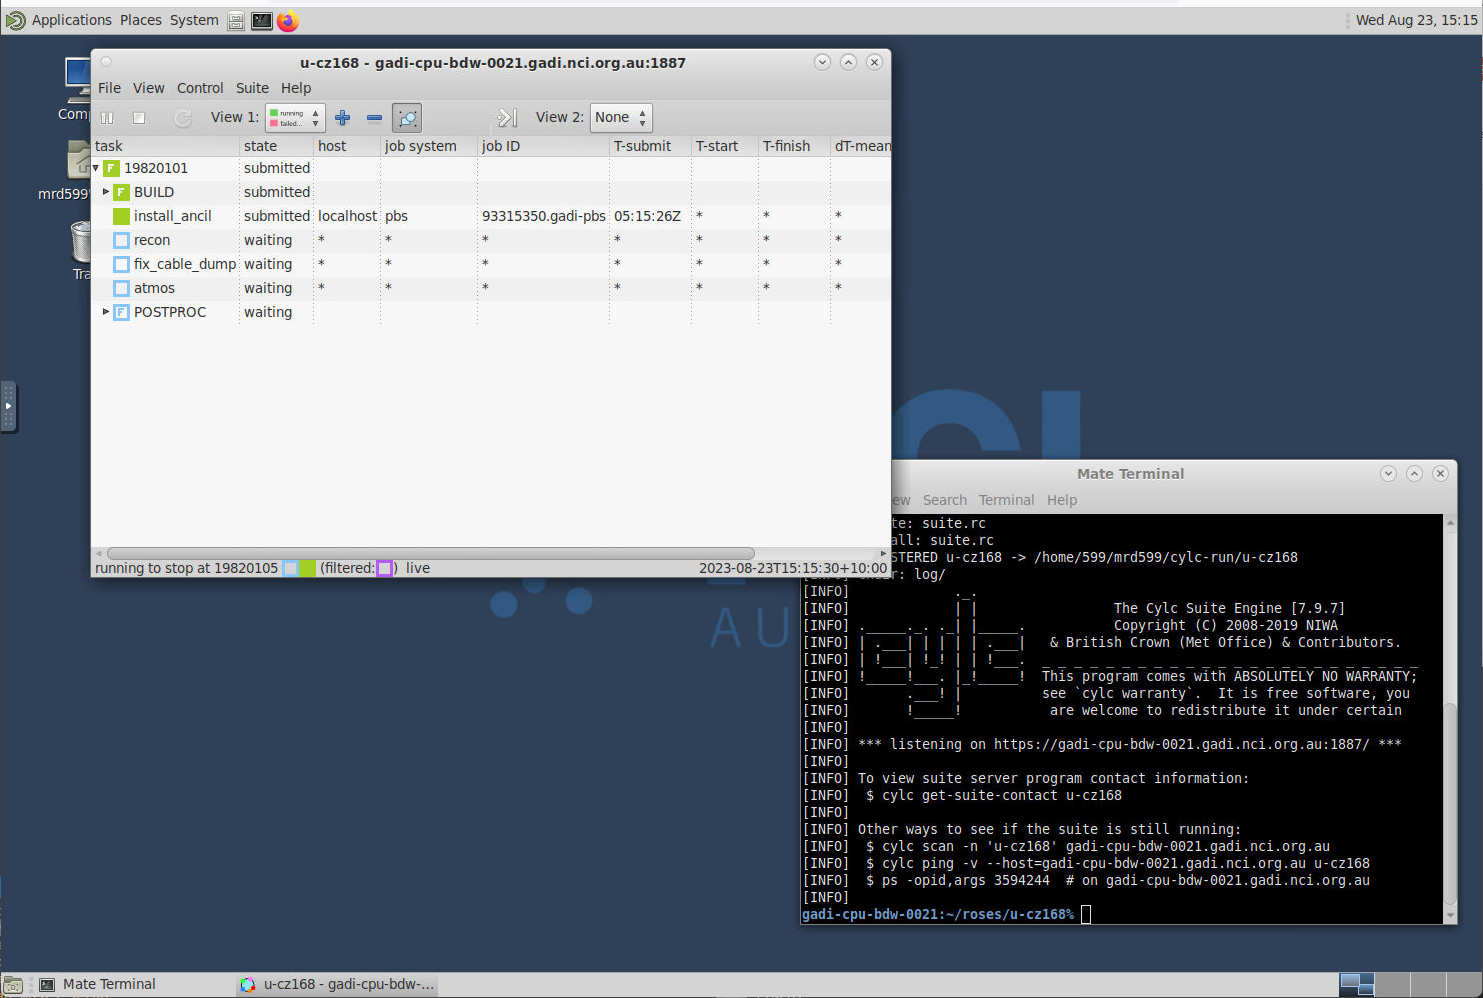
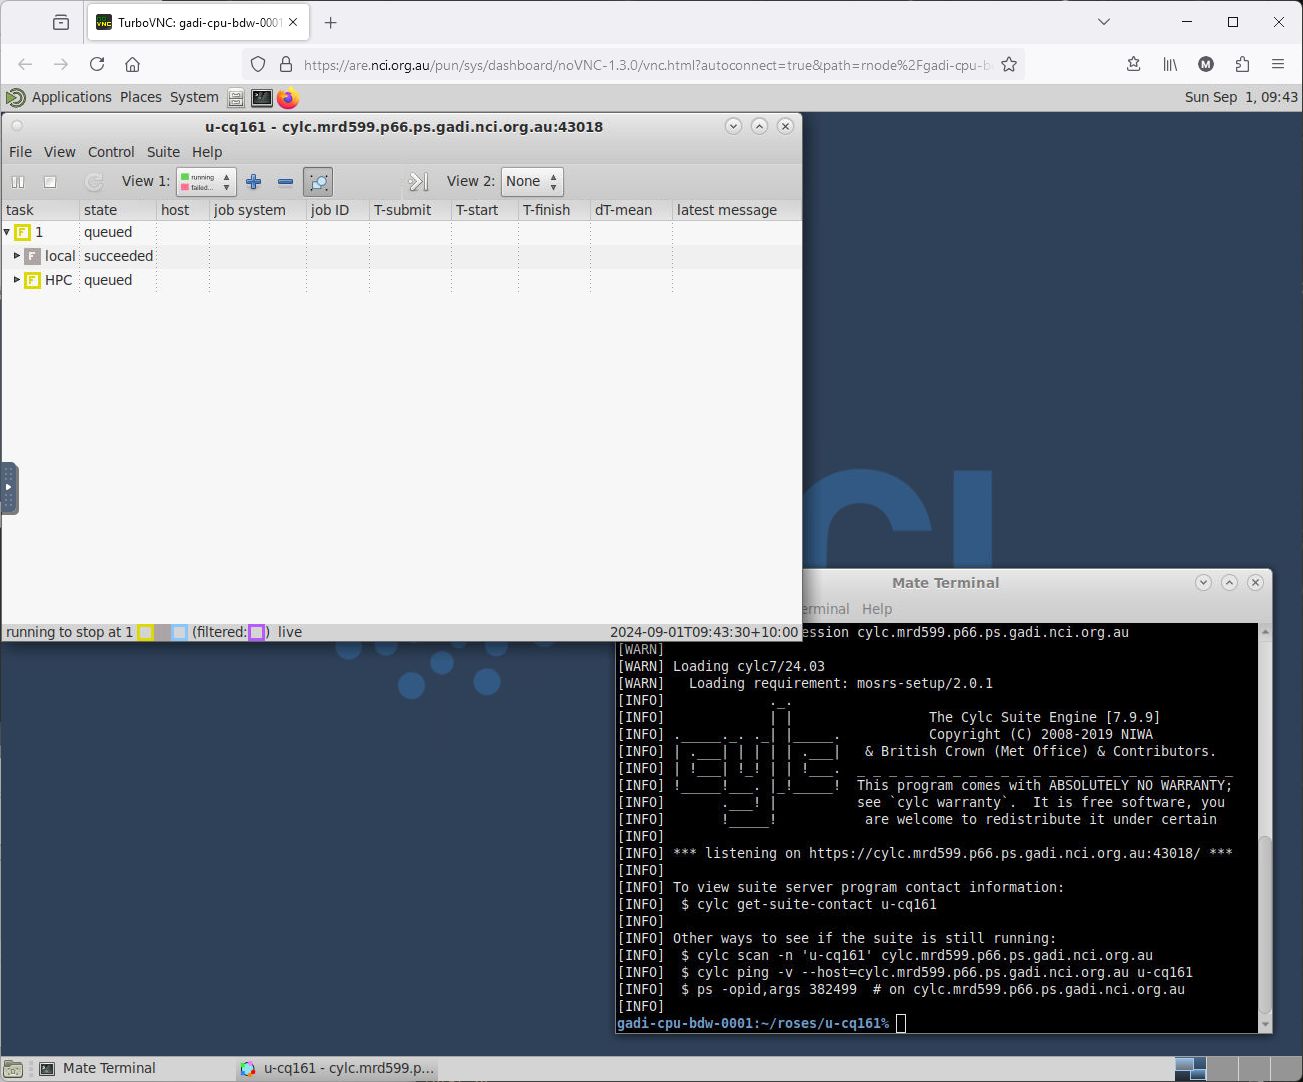
Update with simple cylc example suite

diff --git a/access_rose_cylc/rose_cylc_example.md b/access_rose_cylc/rose_cylc_example.md
@@ -1,59 +1,5 @@
 # ACCESS-NRI Workshop rose cylc examples
-<p>Guide for the rose cylc ACCESS-NRI workshop exercises.</p>
-
-## Step 0: Pre-workshop
-Join the access, hh5, hr22, ki32 and nf33 projects.
-
-The exercises will still work if you do not have a MOSRS account
-
-## Step 1:
-Go to the [Australian Research Environment](https://are.nci.org.au/) website and login with your **NCI username and password**. If you don't have an NCI account, you can sign up for one at the [NCI website](https://my.nci.org.au/mancini/login?next=/mancini/).
-
-<p align="center"><img src="../assets/ARE_setup_guide/setup_image1.png" alt="drawing" width="50%"/></p>
-
-## Step 2:
-Click on `Virtual Desktop` under *Featured Apps* to configure a new VDI instance. This option is also available under the *All Apps* section at the bottom of the page and the *Interactive Apps* dropdown located in the top menu.
-
-<p align="center"><img src="../assets/access_rose_cylc/setup_vdi1.png" alt="drawing" width="50%"/></p>
-
-## Step 3:
-You will now be presented with the main VDI instance configuration form. Please complete **only** the fields below - leave all other fields blank or to their default values.
-
-- *3.1* **Walltime**: The number of hours the VDI instance will run. `3` hours is sufficient for this workshop session.
-
-<p align="center"><img src="../assets/access_rose_cylc/setup_image3.png" alt="drawing" width="50%"/></p>
-
-- *3.2* **Compute Size**: Select `Tiny (1 cpus, 4.5G mem)` from the dropdown menu.
-
-<p align="center"><img src="../assets/access_rose_cylc/setup_image4.png" alt="drawing" width="50%"/></p>
-
-- *3.3* **Project**: Please enter `nf33`. This will allocate SU usage to the workshop project.
-
-<p align="center"><img src="../assets/ARE_setup_guide/setup_image5.png" alt="drawing" width="50%"/></p>
-
-- *3.4* **Storage**: This is the list of `/g/data/` project data storage locations required to complete the workshop tutorials. In ARE, storage locations need to be explicitly defined to access these data from within a VDI instance. Please enter the following string listing the projects mentioned in **Step 0** above: `gdata/access+gdata/hh5+gdata/hr22+gdata/ki32`.
-
-<p align="center"><img src="../assets/access_rose_cylc/setup_image6.png" alt="drawing" width="50%"/></p>
-
-- *3.5* Click `Advanced options ...`
-  * Optional: You can check the box here to receive an email notification when your VDI instance starts, but as we are only running relatively small instances, they will spin up quickly and this probably isn't necessary.</p>
-
-<p align="center"><img src="../assets/ARE_setup_guide/setup_image7.png" alt="drawing" width="50%"/></p>
-
-- *3.6* Click `Launch` to start your VDI Instance.
-
-<p align="center"><img src="../assets/access_rose_cylc/setup_image12.png" alt="drawing" width="50%"/></p>
-
-## Step 4:
-Once you have clicked `Launch` the browser will redirect to the 'interactive sessions' page where you will see your VDI instance details and current status which will look something like this:
-
-<p align="center"><img src="../assets/access_rose_cylc/setup_image13.png" alt="drawing" width="50%"/></p>
-
-Once the VDI instance has started (this usually takes around 30 seconds) and this status window should update and look something like the following, reporting that the instance has started and the time remaining. More detailed information on the instance can be accessed by clicking the `Session ID` link.
-
-<p align="center"><img src="../assets/access_rose_cylc/setup_image14.png" alt="drawing" width="50%"/></p>
-
-All that remains to get started is to click `Launch VDI Desktop`.
+<p>A simple suite to test that things are working.</p>
 
 #  Running the example suite
 
@@ -66,23 +12,40 @@ module use /g/data/hr22/modulefiles
 module load cylc7
 ```
 
+NCI persistent sessions allow a cylc server to keep running after your login session (e.g. for long running climate suites).
+https://opus.nci.org.au/display/DAE/Persistent+Sessions+For+Cylc+Jobs
+
+```
+persistent-sessions start cylc-test
+```
+
+[Running Example Suite](https://opus.nci.org.au/display/DAE/Cylc+7+suite+run+example%3A++u-cq161)
+
+This is a simple suite that runs a couple of short jobs to test connectivity
+
 If you have a MOSRS account
 
 ```
 mosrs-auth
-rosie co u-cz168
+rosie co u-cq161
 ```
-This checks out a copy of the suite to `~/roses/u-cz168`.
+This checks out a copy of the suite to `~/roses/u-cq161`.
 
-If you do not have a MOSRS account
+If you do not have a MOSRS account but are a member of the `ki32_mosrs` project
 ```
 mkdir -p ~/roses
-cp -r /g/data/access/nri_training/u-cz168 ~/roses
+cd roses
+svn co file:///g/data/ki32/mosrs//roses-u/c/q/1/6/1/trunk u-cq161
 ```
 
-This example is a ACCESS-CM2 like AMIP (atmosphere only) suite, but uses lower horizontal resolution and runs a day at a time rather than 6 months at a time.
+If all else fails
 ```
-cd ~/roses/u-cz168
+mkdir -p ~/roses
+cp -r /g/data/access/nri_training/u-cq161 ~/roses
+```
+
+```
+cd ~/roses/u-cq161
 rose suite-run
 ```
 
@@ -99,49 +62,4 @@ The model output and log files can be checked directly on the file system. E.g.
 Note that for suites launched from ARE, the whole `cylc-run/SUITE` directory is on `/scratch`, not just the `work` and `share` subdirectories.
 
 ## Model run directory
-Tasks run in a `work/CYCLE_TIME/TASK_NAME` subdirectory and by default input and output files will be there. This list shows the model run directory while it is in progress (before the post-processing moves files)
-
-<p align="center"><img src="../assets/access_rose_cylc/work_files.png" alt="drawing" width="80%"/></p>
-
-`ATMOSCNTL` is a model namelist, created from the suite `app/um/rose-app.conf` file.
-
-`cz168a.da19820102_00` is the restart file written at the end of the first day.
-
-`cz168a.pd19820101` is a UM diagnostic (STASH) file.
-
-## Model output
-This section describes the archive strategy used by ACCESS-CM2. Other models will have a different style for both naming and saving files.
-
-<p align="center"><img src="../assets/access_rose_cylc/archive_tree.png" alt="drawing" width="80%"/></p>
-
-Files in `history/atm` are UM fieldsfiles and can be read by `xconv` or by iris from within python. However the suite also converts to netCDF. Standard short names aren't available for all UM variables, so a STASH code based name is used. E.g. try
-```
-module use /g/data/hh5/public/modules
-module load conda/analysis3
-ncdump -c /scratch/$PROJECT/$USER/archive/cz168/history/atm/netCDF/cz168a.pd19820101.nc
-```
-
-Normally we'd recommend model analysis and plotting be done with a jupyter notebook, but a very simple stand-alone script is `/g/data/access/nri_training/simple_plot.py`. Try for example (you can ignore the Qt or libGL warning messages)
-```
-% python /g/data/access/nri_training/simple_plot.py  /scratch/$PROJECT/$USER/archive/cz168/history/atm/netCDF/cz168a.pd19820101.nc fld_s03i236
-```
-or with the original UM output
-```
-module use ~access/modules
-module load xconv
-xconv -i /scratch/$PROJECT/$USER/archive/cz168/history/atm/cz168a.pd19820101
-```
-With xconv, double click a variable to select and then choose `Plot Data`.
-
-This run saves only daily data to the `pd` files. The full ACCESS-CM2 also saves monthly means to `pm` files and optionally also higher frequency data as required by CMIP6
-
-## Suite structure
-A suite is a directory in the MOSRS roses subversion repository. It contains the model science configuration, compute details and task dependencies. All files are plain text.
-<p align="center"><img src="../assets/access_rose_cylc/suite_files.png" alt="drawing" width="80%"/></p>
-
-## Rose/cylc exercises
-[1: Changing run length](ex1_runlength.md)
-
-[2:  Changing a model physics option](ex2_co2.md)
-
-[3: Troubleshooting](ex3_troubleshooting.md)
+Tasks run in a `work/CYCLE_TIME/TASK_NAME` subdirectory and by default input and output files will be there.

diff --git a/README.md b/README.md
@@ -1,54 +1,39 @@
-#  ACCESS-NRI Training Day 2 September 2024 
+#  ACCESS-NRI Training Day 2 September 2024
 ##  Running a high-resolution regional model using a two-level nest
 
-This repository includes the material for the <a href="https://www.access-nri.org.au" target="_black">ACCESS-NRI</a> <a href="https://www.access-nri.org.au/event/access-training-day-2024/" target="_black">Training Day</a> on 2 September 2024.  
-You can find a general overview of the ACCESS-NRI documentation on the <a href="https://access-hive.org.au" target="_blank">ACCESS-Hive</a>.  
+This repository includes the material for the <a href="https://www.access-nri.org.au" target="_black">ACCESS-NRI</a> <a href="https://www.access-nri.org.au/event/access-training-day-2024/" target="_black">Training Day</a> on 2 September 2024.
+You can find a general overview of the ACCESS-NRI documentation on the <a href="https://access-hive.org.au" target="_blank">ACCESS-Hive</a>.
 
 We value your feedback on this training, in-person or via the <a href="https://forum.access-hive.org.au/" target="_blank">ACCESS-Hive Forum</a>, as it will help us to provide better training and documentation for the ACCESS community on our documentation portal, <a href="https://access-hive.org.au" target="_blank">ACCESS-Hive Docs</a>.
 
 ## Structure of this repository (see <a href="https://www.access-nri.org.au/event/access-training-day-2-september-2024/" target="_blank">Training Day program</a>)
 
-Instructions on which NCI project you need to be part of and how to launch the <a href="https://are.nci.org.au" target="_blank">ARE</a> (Australian Research Environment) are provided at the beginning of each exercise:
-
 1. Check basic setup
 
-a) [Exercise: Running Example Suite](https://opus.nci.org.au/display/DAE/Cylc+7+suite+run+example%3A++u-cq161)
+   a) NCI project check
+
+      * nf33  NRI training
+      * hr22  rose cylc workflow
+      * ki32, ki32_mosrs  NCI MOSRS Repository Mirror
+      * access  ACCESS software & data
+      * rt52 ERA5
+      * zz93 ERA5 land
+      * hh5  CLEX software & data
+
+       If you're not a member of one of these please contact a helper.
+
+   b) [ARE setup](https://github.com/ACCESS-NRI/training-day-2024-regional_model/blob/main/access_rose_cylc/are_setup.md)
+ <br>
+   c) [Simple suite with NCI persistent session](https://github.com/ACCESS-NRI/training-day-2024-regional_model/blob/main/access_rose_cylc/rose_cylc_example.md)
 
 2. Running a high-resolution regional model using a two- level nest
 
-   a) [Exercise: Running ACCESS in ARE](https://github.com/ACCESS-NRI/training-day-2024-regional_model/blob/main/access_rose_cylc/rose_cylc_example.md)  
-   b) [Exercise: Working with an ACCESS suite](https://github.com/ACCESS-NRI/training-day-2024-regional_model/blob/main/access_rose_cylc/ex1_runlength.md)  
-   c) [Exercise: How to modify suites](https://github.com/ACCESS-NRI/training-day-2024-regional_model/blob/main/access_rose_cylc/ex2_co2.md) <br>
-   d) [Exercise: Troubleshooting example](https://github.com/ACCESS-NRI/training-day-2024-regional_model/blob/main/access_rose_cylc/ex3_troubleshooting.md)
+   a) [Exercise: Working with an ACCESS suite](https://github.com/ACCESS-NRI/training-day-2024-regional_model/blob/main/access_rose_cylc/ex1_runlength.md)
+   <br>
+   b) [Exercise: How to modify suites](https://github.com/ACCESS-NRI/training-day-2024-regional_model/blob/main/access_rose_cylc/ex2_co2.md) <br>
+   c) [Exercise: Troubleshooting example](https://github.com/ACCESS-NRI/training-day-2024-regional_model/blob/main/access_rose_cylc/ex3_troubleshooting.md)
 
 3. Analyse the output data
 
    a) [Exercise: List contents of FieldsFile](https://github.com/ACCESS-NRI/training-day-2024-regional_model/blob/main/analyse_data/list_file_contents.md) <br>
-   b) [Exercise: Simple plot of output using xarray](https://github.com/ACCESS-NRI/training-day-2024-regional_model/blob/main/analyse_data/simple_plot.md)  
-
-
-
-
-Remember that you have to be part of the projects that are listed at the beginning of each exercise.
-
-Please <a href="https://my.nci.org.au/mancini/" target="_blank">join</a> them before the workshop - most importantly `nf33` - and list them in the storage instructions of your ARE session, as per exercise instructions.
-
-## Cloning this repository
-
-For the training on regional model you will need to clone a local copy of this repo to <i>Gadi</i> as follows: 
-
-1. Log in to <i>Gadi</i> via the command line of your preferred terminal using your NCI username and password.
-
-   ```bash
-   ssh <your_nci_username>@gadi.nci.org.au
-   ```
-
-   For example, you could use the **Gadi Terminal** app provided after logging in to the <a href="https://are.nci.org.au" target="_blank">ARE</a>.
-   
-2. Clone this Github repo to your user directory within `/scratch/nf33` on <i>Gadi</i>. Depending on whether or not you've used the nf33 project before, your user directory may or may not already exist.
-
-   ```bash
-   mkdir -p /scratch/nf33/$USER
-   cd /scratch/nf33/$USER
-   git clone https://github.com/ACCESS-NRI/training-day-2024-regional_model.git
-   ```
+   b) [Exercise: Simple plot of output using xarray](https://github.com/ACCESS-NRI/training-day-2024-regional_model/blob/main/analyse_data/simple_plot.md)

diff --git a/access_rose_cylc/are_setup.md b/access_rose_cylc/are_setup.md
@@ -1,0 +1,50 @@
+# Initial ARE setup
+
+## Step 1:
+Go to the [Australian Research Environment](https://are.nci.org.au/) website and login with your **NCI username and password**. If you don't have an NCI account, you can sign up for one at the [NCI website](https://my.nci.org.au/mancini/login?next=/mancini/).
+
+<p align="center"><img src="../assets/ARE_setup_guide/setup_image1.png" alt="drawing" width="50%"/></p>
+
+## Step 2:
+Click on `Virtual Desktop` under *Featured Apps* to configure a new VDI instance. This option is also available under the *All Apps* section at the bottom of the page and the *Interactive Apps* dropdown located in the top menu.
+
+<p align="center"><img src="../assets/access_rose_cylc/setup_vdi1.png" alt="drawing" width="50%"/></p>
+
+## Step 3:
+You will now be presented with the main VDI instance configuration form. Please complete **only** the fields below - leave all other fields blank or to their default values.
+
+- *3.1* **Walltime**: The number of hours the VDI instance will run. `4` hours is sufficient for this workshop session.
+
+<p align="center"><img src="../assets/access_rose_cylc/setup_image3.png" alt="drawing" width="50%"/></p>
+
+- *3.2* **Compute Size**: Select `Tiny (1 cpus, 4.5G mem)` from the dropdown menu.
+
+<p align="center"><img src="../assets/access_rose_cylc/setup_image4.png" alt="drawing" width="50%"/></p>
+
+- *3.3* **Project**: Please enter `nf33`. This will allocate SU usage to the workshop project.
+
+<p align="center"><img src="../assets/ARE_setup_guide/setup_image5.png" alt="drawing" width="50%"/></p>
+
+- *3.4* **Storage**: This is the list of `/g/data/` project data storage locations required to complete the workshop tutorials. In ARE, storage locations need to be explicitly defined to access these data from within a VDI instance. Please enter the following list of projects: `gdata/access+gdata/hh5+gdata/hr22+gdata/ki32+gdata/nf33`.
+
+<p align="center"><img src="../assets/access_rose_cylc/setup_image6.png" alt="drawing" width="50%"/></p>
+
+- *3.5* Click `Advanced options ...`
+  * Optional: You can check the box here to receive an email notification when your VDI instance starts, but as we are only running relatively small instances, they will spin up quickly and this probably isn't necessary.</p>
+
+<p align="center"><img src="../assets/ARE_setup_guide/setup_image7.png" alt="drawing" width="50%"/></p>
+
+- *3.6* Click `Launch` to start your VDI Instance.
+
+<p align="center"><img src="../assets/access_rose_cylc/setup_image12.png" alt="drawing" width="50%"/></p>
+
+## Step 4:
+Once you have clicked `Launch` the browser will redirect to the 'interactive sessions' page where you will see your VDI instance details and current status which will look something like this:
+
+<p align="center"><img src="../assets/access_rose_cylc/setup_image13.png" alt="drawing" width="50%"/></p>
+
+Once the VDI instance has started (this usually takes around 30 seconds) and this status window should update and look something like the following, reporting that the instance has started and the time remaining. More detailed information on the instance can be accessed by clicking the `Session ID` link.
+
+<p align="center"><img src="../assets/access_rose_cylc/setup_image14.png" alt="drawing" width="50%"/></p>
+
+All that remains to get started is to click `Launch VDI Desktop`.
